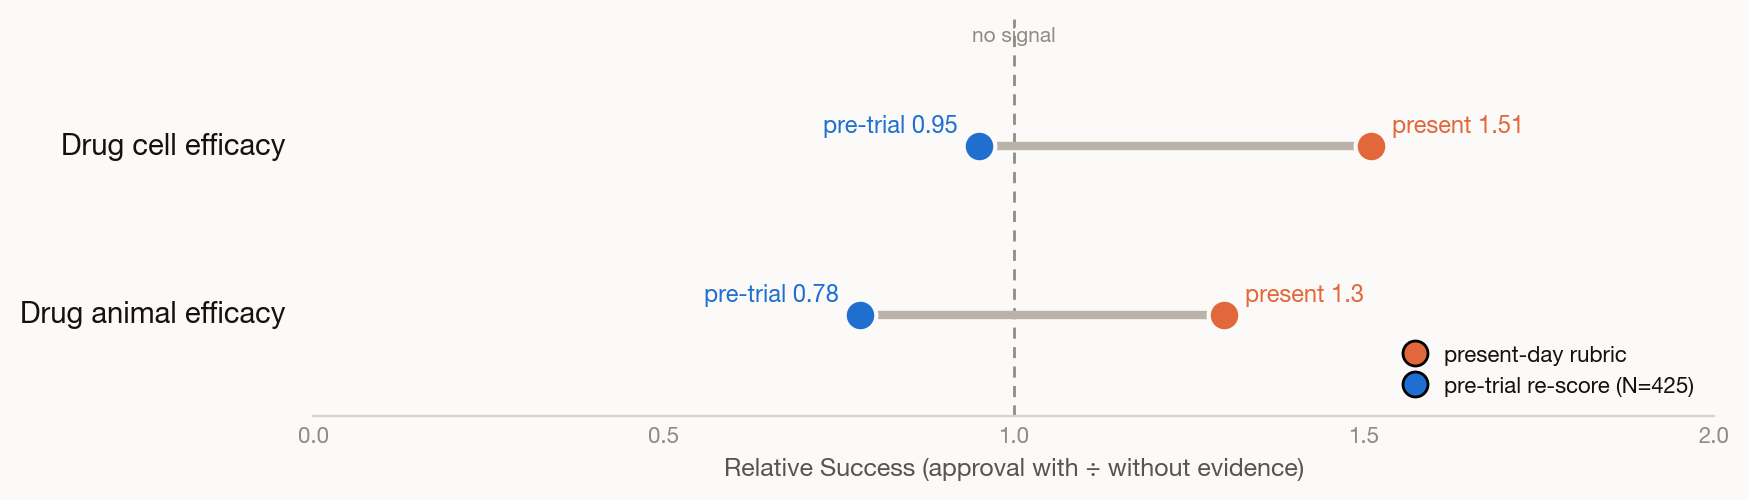
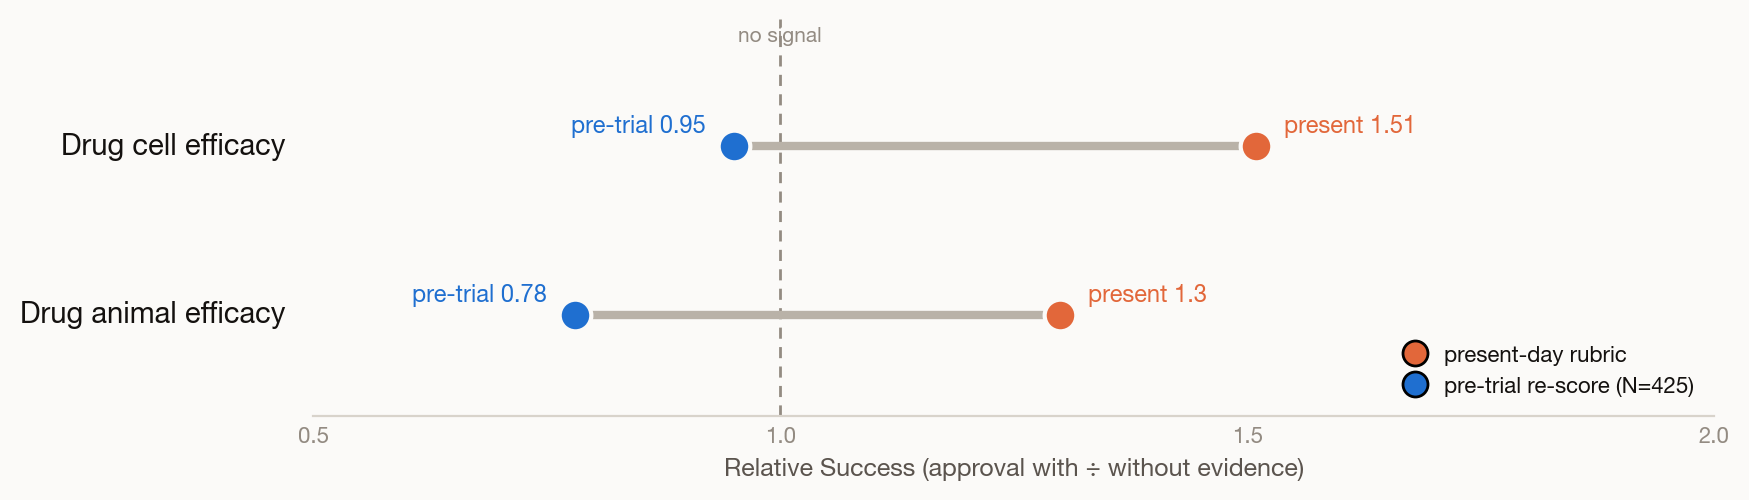
Figures: tighten dumbbell x-axes to 0.5-2.0 (drop wasted left space)
The two dot-plot dumbbells (literature + drug-efficacy collapse) had empty 0-0.5
space (lowest point 0.78). Tightened to 0.5-2.0. Overview stays 0-2.0: it is a bar
chart (bars must anchor at 0) and DepMap essentiality sits at 0.24, which 0.5 would
clip. All three still share the 1.0 no-signal line and 2.0 right bound.

diff --git a/analyses/plot_nuance_dateclean.py b/analyses/plot_nuance_dateclean.py
@@ -75,7 +75,7 @@ def plot_collapse(clean=False):
                 fontweight="bold", color=INK, transform=ax.get_yaxis_transform())
     _genetics_band(ax, -0.5, 1.5)
     ax.text(1.0, 1.62, "no signal", fontsize=7.5, color=MUTED, ha="center")
-    ax.set_xlim(0, 2.0); ax.set_xticks([0, 0.5, 1.0, 1.5, 2.0]); ax.set_ylim(-0.6, 1.75)
+    ax.set_xlim(0.5, 2.0); ax.set_xticks([0.5, 1.0, 1.5, 2.0]); ax.set_ylim(-0.6, 1.75)
     ax.set_yticks([])
     for s in ("top", "right", "left"): ax.spines[s].set_visible(False)
     ax.spines["bottom"].set_color(RULE)
@@ -122,7 +122,7 @@ def plot_drug_collapse(clean=False):
                 color=INK, transform=ax.get_yaxis_transform())
     _genetics_band(ax, -0.5, 1.5)
     ax.text(1.0, 1.62, "no signal", fontsize=7.5, color=MUTED, ha="center")
-    ax.set_xlim(0, 2.0); ax.set_xticks([0, 0.5, 1.0, 1.5, 2.0]); ax.set_ylim(-0.6, 1.75)
+    ax.set_xlim(0.5, 2.0); ax.set_xticks([0.5, 1.0, 1.5, 2.0]); ax.set_ylim(-0.6, 1.75)
     ax.set_yticks([])
     for s in ("top", "right", "left"): ax.spines[s].set_visible(False)
     ax.spines["bottom"].set_color(RULE)
